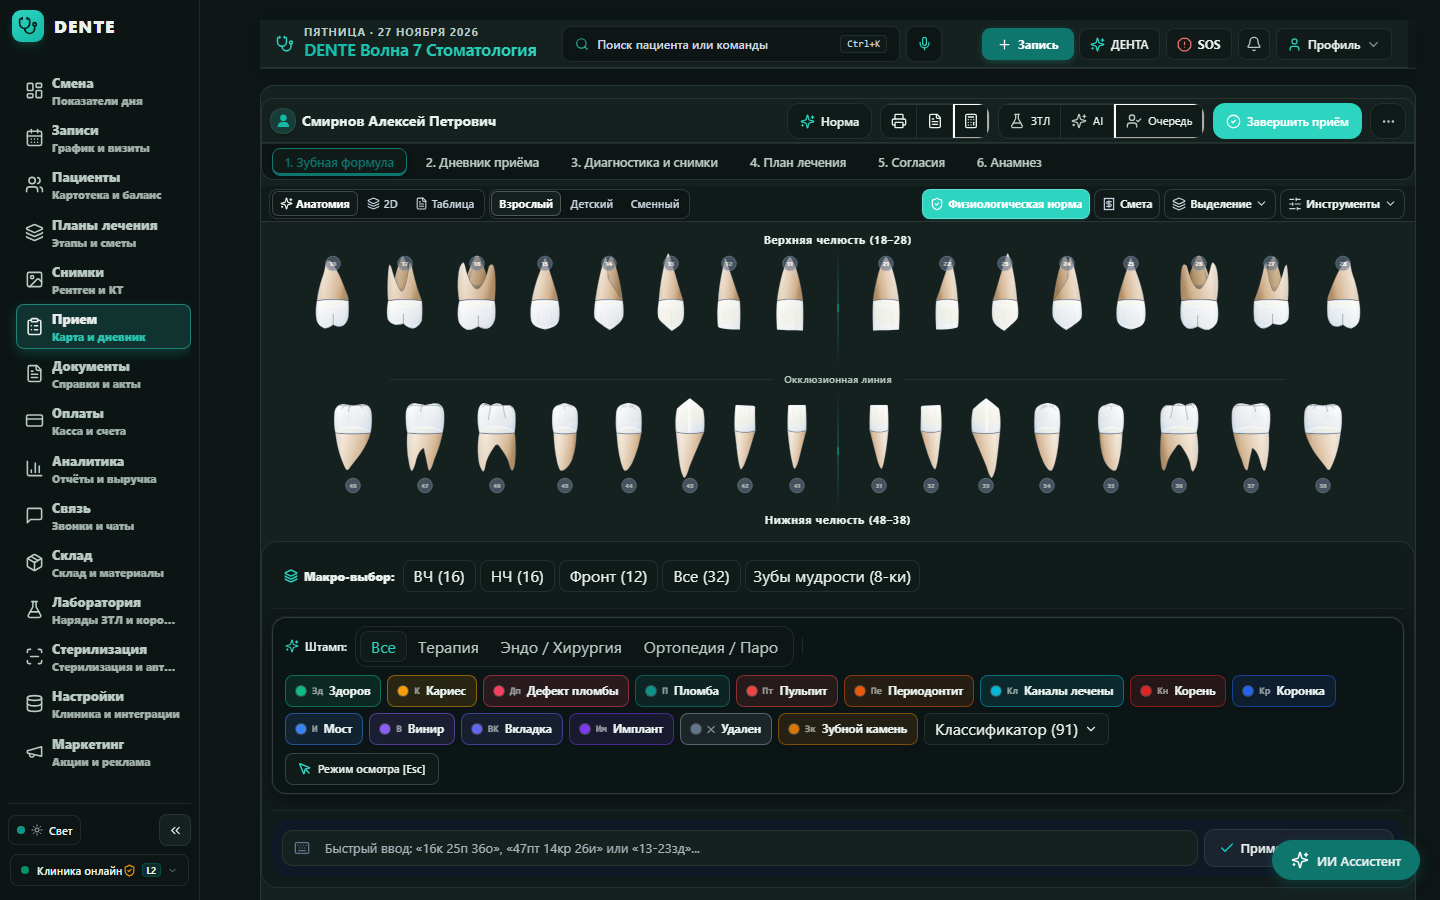
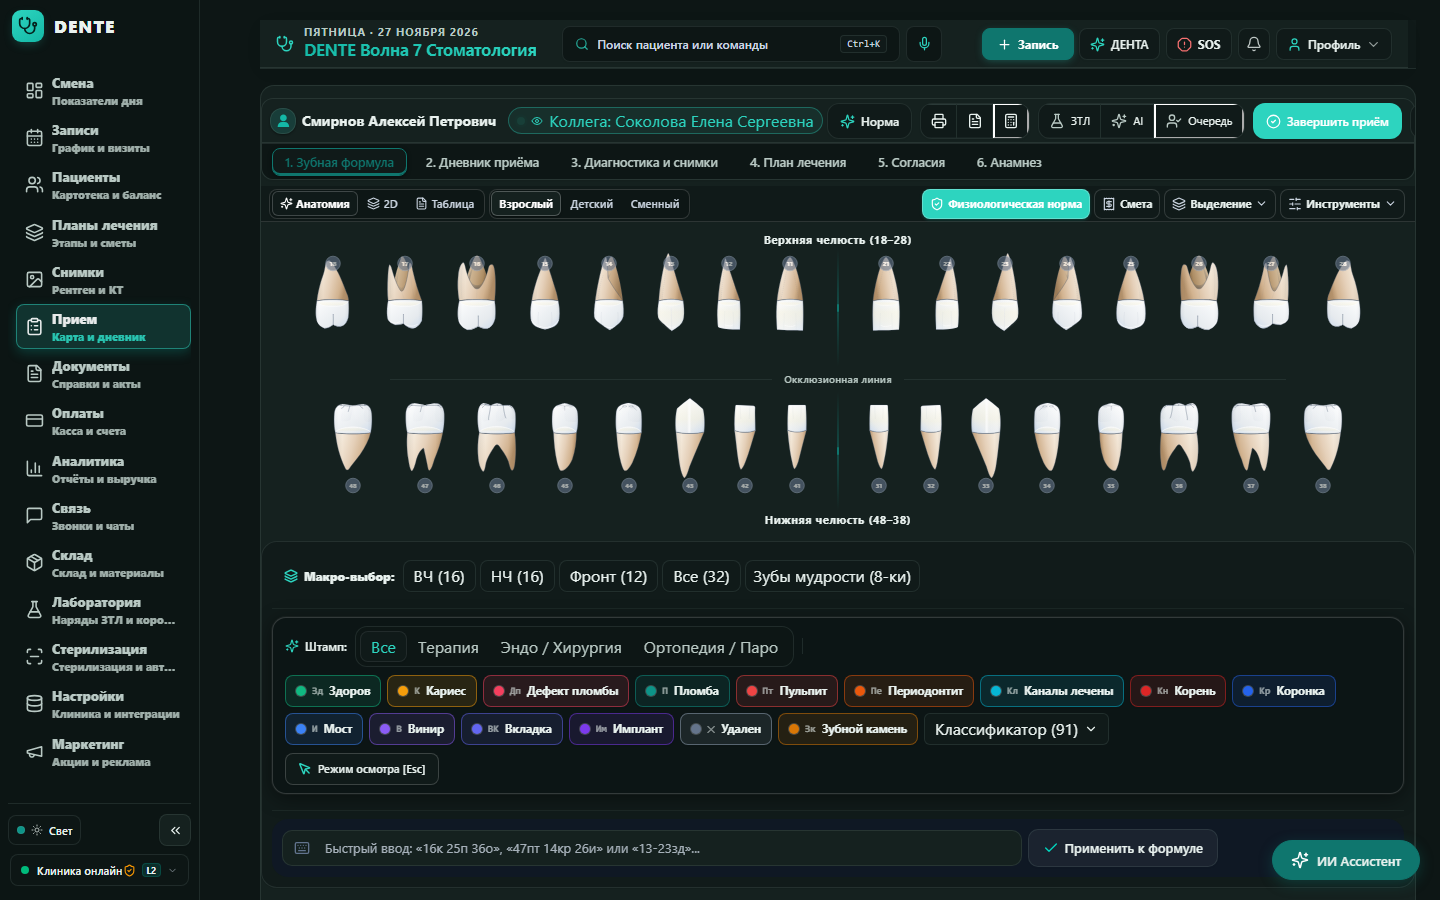
fix(web): clear copilot FAB from odontogram quick input & verify lab CRUD routes

Changed region(s): [[0.3438, 0.0933, 1.0, 0.1556], [0.7188, 0.9333, 0.875, 0.9644]]

diff --git a/apps/web/src/components/lab/__tests__/dentalLabSSOT.test.tsx b/apps/web/src/components/lab/__tests__/dentalLabSSOT.test.tsx
@@ -29,12 +29,16 @@ import {
 	calcNetRevenueKopecks,
 } from "../dentalLabCatalogData";
 import { resolveClinicRoute } from "../../../router/routeResolver";
+import { registerOrdersCrudRoutes } from "../../../../../api/src/routes/lab/ordersCrudRoutes.js";
+import { insertLabOrderInDb } from "../../../../../api/src/routes/lab/ordersCrudModules/labOrderInsertDb.js";
+import type { FastifyInstance } from "fastify";
+import type { TenantDb } from "../../../../../api/src/db/rls.js";
+import type { CreateLabOrderInput } from "../../../../../api/src/routes/lab/ordersCrudModules/labOrderValidationSchemas.js";
 
 const __filename = fileURLToPath(import.meta.url);
 const __dirname = path.dirname(__filename);
 const labDir = path.resolve(__dirname, "..");
 const webSrcDir = path.resolve(labDir, "../..");
-const apiSrcDir = path.resolve(webSrcDir, "../../api/src");
 
 describe("DENTE Dental Lab SSOT Consolidation & Orders Inquisitor [LAB-01..05]", () => {
 	// =========================================================================
@@ -217,35 +221,77 @@ describe("DENTE Dental Lab SSOT Consolidation & Orders Inquisitor [LAB-01..05]",
 	// 4. БЭКЕНД РОУТЫ И КАНОНИЧЕСКИЙ ЭНДПОИНТ /api/lab/orders
 	// =========================================================================
 	describe("4. Backend Fastify Routes & Canonical Endpoint SSOT", () => {
-		const routesFile = path.resolve(apiSrcDir, "routes/lab/ordersCrudRoutes.ts");
-		const insertDbFile = path.resolve(apiSrcDir, "routes/lab/ordersCrudModules/labOrderInsertDb.ts");
+		interface CapturedRoute {
+			method: string;
+			url: string;
+			config?: Record<string, unknown>;
+		}
 
-		it("4.1. ordersCrudRoutes.ts registers /api/lab/orders as primary SSOT route", () => {
-			assert.ok(fs.existsSync(routesFile), "ordersCrudRoutes.ts must exist");
-			const content = fs.readFileSync(routesFile, "utf-8");
-			assert.ok(content.includes('app.get("/api/lab/orders"'), "Must support GET /api/lab/orders");
-			assert.ok(content.includes('app.post("/api/lab/orders"'), "Must support POST /api/lab/orders");
-			assert.ok(content.includes('app.put("/api/lab/orders/:id"'), "Must support PUT /api/lab/orders/:id");
-			assert.ok(content.includes('app.delete("/api/lab/orders/:id"'), "Must support DELETE /api/lab/orders/:id");
+		async function collectRegisteredLabRoutes(): Promise<CapturedRoute[]> {
+			const routes: CapturedRoute[] = [];
+			const appStub: Pick<FastifyInstance, "route"> = {
+				route(opts: { method: string | string[]; url: string; config?: Record<string, unknown> }) {
+					const methods = Array.isArray(opts.method) ? opts.method : [opts.method];
+					for (const method of methods) {
+						routes.push({ method: method.toUpperCase(), url: opts.url, config: opts.config });
+					}
+					return appStub as FastifyInstance;
+				},
+			};
+			await registerOrdersCrudRoutes(appStub as FastifyInstance);
+			return routes;
+		}
+
+		it("4.1. registerOrdersCrudRoutes registers /api/lab/orders CRUD endpoints via routeFactories", async () => {
+			const routes = await collectRegisteredLabRoutes();
+			const hasRoute = (method: string, url: string) =>
+				routes.some((r) => r.method === method && r.url === url && r.config?.tenantTxSelfManaged === true);
+
+			assert.ok(hasRoute("GET", "/api/lab/orders"), "Must register GET /api/lab/orders");
+			assert.ok(hasRoute("POST", "/api/lab/orders"), "Must register POST /api/lab/orders");
+			assert.ok(hasRoute("PUT", "/api/lab/orders/:id"), "Must register PUT /api/lab/orders/:id");
+			assert.ok(hasRoute("DELETE", "/api/lab/orders/:id"), "Must register DELETE /api/lab/orders/:id");
 		});
 
-		it("4.2. ordersCrudRoutes.ts preserves backward compatibility with /api/clinical/lab-orders", () => {
-			const content = fs.readFileSync(routesFile, "utf-8");
-			assert.ok(content.includes("/api/clinical/lab-orders"), "Must preserve /api/clinical/lab-orders");
-			assert.ok(content.includes("/api/lab/orders"), "Must preserve /api/lab/orders");
+		it("4.2. registerOrdersCrudRoutes preserves backward compatibility with /api/clinical/lab-orders", async () => {
+			const routes = await collectRegisteredLabRoutes();
+			const hasRoute = (method: string, url: string) =>
+				routes.some((r) => r.method === method && r.url === url);
+
+			assert.ok(hasRoute("GET", "/api/clinical/lab-orders"), "Must register GET /api/clinical/lab-orders");
+			assert.ok(hasRoute("POST", "/api/clinical/lab-orders"), "Must register POST /api/clinical/lab-orders");
+			assert.ok(hasRoute("PUT", "/api/clinical/lab-orders/:id"), "Must register PUT /api/clinical/lab-orders/:id");
+			assert.ok(hasRoute("DELETE", "/api/clinical/lab-orders/:id"), "Must register DELETE /api/clinical/lab-orders/:id");
+			assert.ok(hasRoute("GET", "/api/lab/orders"), "Must register canonical GET /api/lab/orders");
 		});
 
-		it("4.3. insertLabOrderInDb prevents quiet patient hijacking [LAB-01]", () => {
-			assert.ok(fs.existsSync(insertDbFile), "labOrderInsertDb.ts must exist");
-			const content = fs.readFileSync(insertDbFile, "utf-8");
-			assert.ok(
-				!content.includes("firstPatient"),
-				"Must NEVER silently hijack arbitrary patient from database without explicit patientId",
+		it("4.3. insertLabOrderInDb prevents quiet patient hijacking [LAB-01]", async () => {
+			const txStub = {
+				select() {
+					return {
+						from() {
+							return {
+								where() {
+									return {
+										limit: async () => [],
+									};
+								},
+							};
+						},
+					};
+				},
+			} as Partial<TenantDb>;
+			const result = await insertLabOrderInDb(
+				txStub as TenantDb,
+				"00000000-0000-4000-8000-000000000001",
+				{
+					patientId: "00000000-0000-4000-8000-000000000999",
+					materialId: "zirconia",
+					construction: "Коронка",
+					teeth: [16],
+				} as CreateLabOrderInput,
 			);
-			assert.ok(
-				content.includes('kind: "patient_not_found"'),
-				"Must return patient_not_found when patientId is missing or invalid",
-			);
+			assert.deepEqual(result, { kind: "patient_not_found" });
 		});
 	});
 });

diff --git a/apps/web/src/components/visit/view/VisitViewPanel.tsx b/apps/web/src/components/visit/view/VisitViewPanel.tsx
@@ -11,7 +11,7 @@ export interface VisitViewPanelProps {
 
 export function VisitViewPanel({ s }: VisitViewPanelProps) {
 	return (
-		<div className="panel visit-panel pb-28 sm:pb-8" id="visit" data-testid="visit-view">
+		<div className="panel visit-panel pb-28 sm:pb-20" id="visit" data-testid="visit-view">
 			<header
 				className="visit-monolithic-header rounded-xl border border-[var(--line)] bg-[var(--paper)] text-[var(--ink)] shadow-xs mb-1 sm:mb-1.5 overflow-visible shrink-0 sticky top-0 z-30 backdrop-blur-md"
 				data-testid="visit-header-monolith"

diff --git a/apps/web/src/components/odontogram/OdontogramQuickTextInput.tsx b/apps/web/src/components/odontogram/OdontogramQuickTextInput.tsx
@@ -91,7 +91,7 @@ export const OdontogramQuickTextInput: React.FC<OdontogramQuickTextInputProps> =
 			} ${className}`}
 			data-testid="odontogram-quick-text-input"
 		>
-			<div className="flex items-center gap-1.5 w-full">
+			<div className="flex items-center gap-1.5 w-full md:pr-44">
 				<div className="relative flex-1 flex items-center min-w-0">
 					<div className="absolute left-3 pointer-events-none flex items-center justify-center text-slate-400 dark:text-slate-500">
 						<Keyboard className="w-4 h-4 shrink-0" />
